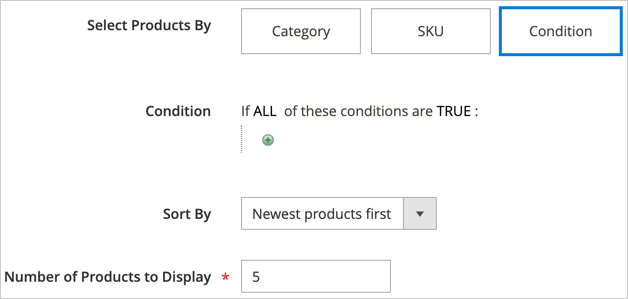
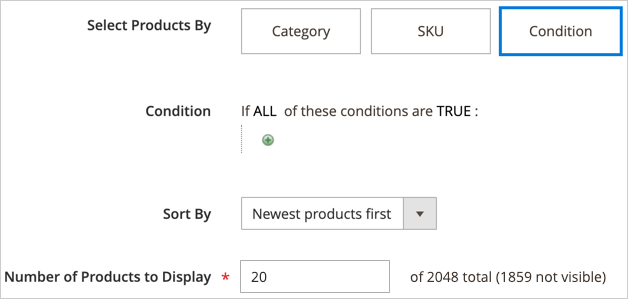
Updated Page Builder Products topic to include latest PB changes (#39)
* Updated Page Builder Products topic to include latest PB changes

* Update src/cms/page-builder-add-content-products.md

* Update src/cms/page-builder-add-content-products.md

* Update src/cms/page-builder-add-content-products.md

* Update src/cms/page-builder-add-content-products.md

* Update src/cms/page-builder-add-content-products.md

Changed region(s): [[0.6051, 0.8729, 0.9682, 0.9632], [0.3631, 0.8729, 0.4236, 0.9632]]

diff --git a/src/cms/page-builder-add-content-products.md b/src/cms/page-builder-add-content-products.md
@@ -82,50 +82,50 @@ You can now use a [widget]({% link cms/widgets.md %}) to place this block wherev
 
 ## Products Appearances
 
-| Appearances      | Description                                                                                                                                                                                              |
-|------------------|----------------------------------------------------------------------------------------------------------------------------------------------------------------------------------------------------------|
-| Product Grid     | Displays the products within a grid that shows five products per row (by default) and as many rows needed to display the number entered in the **Number of Products to Display** setting. |
+| Appearances      | Description                                                                                                                                                                                                                                                                                                                                                                                                                                                                             |
+|-----------|------------|
+| Product Grid  | Displays the products within a grid that shows five products per row (by default), with as many rows as needed to display the number entered in the **Number of Products to Display** setting. |
 | Product Carousel | Displays the products within a carousel (also known as a slider). The carousel shows up to five products per slide. <br/><br/>**Responsiveness Alert**: When you select this appearance, it is best to add the Products content type directly to a Row where it is responsive, showing fewer products per side on smaller screens. If you add it to any other content type (such as a Column or Tab), the carousel always shows five products per slide, regardless of the screen size. |
 
 ## Select Products By Settings
 
 The three options for selecting products -- by **Category**, **SKU**, or **Condition** -- are mutually exclusive. For example, you cannot select the Category option, use the Category selector, then switch over to the Condition option to add some conditions. Your products will only be selected based on what you enter in the fields from _one_ of these three options.
 
-| Settings                      | Description   |
-|-------------------------------|------------------------------------------------------------------------------------------------------------------------------------------------------------------------------------------------------------------------------------------------------------------------------------------------------------------------------------------------------------------------------------------------------------------------------------------------------------------------------------------------------------------------------------------------------------------------------------------------------------------------------------------------------------------------------------------------------------------------------------------------------------------------------------------------------------------------------------------------------------------------------------------------------------------------------------------------------------------------|
-| Category                      | Selects the products to display by category. When selected, this option provides a **Category** selector to choose the category of products to display.                                                                                                                                                                                                                                                                                                                                                                                                                                                                                                                                                                                                                                                                                                                                                                                                                                           |
-| SKU                           | Selects products to display by SKU. When selected, this option provides a **Product SKUs** text box to enter a comma-separated list of SKUs to display.                                                                                                                                                                                                                                                                                                                                                                                                                                                                                                                                                                                                                                                                                                                                                                                                                                           |
-| Condition                     | Selects products to display from the conditions you define. When selected, this option provides a **Condition** selector for adding conditions to your products selection.                                                                                                                                                                                                                                                                                                                                                                                                                                                                                                                                                                                                                                                                                                                                                                                                                                                               |
-| Category selector             | Provides a selector that lists all the categories within your catalog to choose from. For example, in the Magento sample data, selecting the Watches category displays all the watch products within that category. Additionally, if **Sort By** is set to **Position**, the products will appear in the same order that they appear in your catalog.                                                                                                                                                                                                                                                                                                                                                                                                                                                                                                                                                                                                                                                                                                                                                                                                                                           |
-| Product SKUs                  | Provides a textbox into which you can enter SKUs for the enabled products you want to display. If you enter a SKU for a disabled product, it will not display. Additionally, if **Sort By** is set to **Position**, these SKUs will appear in the Products list in the same order you enter them into this textbox.                                                                                                                                                                                                                                                                                                                                                                                                                                                                                                                                                                                                                                                                                                                                                                                                                                             |
-| Condition selector            | Provides a selector to add conditions (Gender, Price, Weight, and so on) for selecting the products you want to display in the Products list. For example, you could select only products with a Gender set to Unisex.                            |
+| Settings                      | Description                                                                                                                                                                                                                                                                                                                                                                                                                                                                                                                                                                                                                                                                                                                                                                                                                                                                                                                                                                                                                                                                                                                                                                                                                                                                                                                               |
+|--------------|----------------|
+| Category                      | Selects the products to display by category. When selected, this option provides a **Category** selector to choose the category of products to display.                                                                                                                                                                                                                                                                                                                                                                                                                                                                                                                                                                                                                                                                                                                                                                                                                                                                                                                                                                                                                                                                                                                                                                                   |
+| SKU                           | Selects products to display by SKU. When selected, this option provides a **Product SKUs** text box to enter a comma-separated list of SKUs to display.                                                                                                                                                                                                                                                                                                                                                                                                                                                                                                                                                                                                                                                                                                                                                                                                                                                                                                                                                                                                                                                                                                                                                                                   |
+| Condition                     | Selects products to display from the conditions you define. When selected, this option provides a **Condition** selector for adding conditions to your products selection.                                                                                                                                                                                                                                                                                                                                                                                                                                                                                                                                                                                                                                                                                                                                                                                                                                                                                                                                                                                                                                                                                                                                                                |
+| Category selector             | Provides a selector that lists all the categories within your catalog to choose from. For example, in the Magento sample data, selecting the Watches category displays all the watch products within that category. Additionally, if **Sort By** is set to **Position**, the products will appear in the same order that they appear in your catalog.                                                                                                                                                                                                                                                                                                                                                                                                                                                                                                                                                                                                                                                                                                                                                                                                                                                                                                                                                                                     |
+| Product SKUs                  | Provides a textbox into which you can enter SKUs for the enabled products you want to display. If you enter a SKU for a disabled product, it will not display. Additionally, if **Sort By** is set to **Position**, these SKUs will appear in the Products list in the same order you enter them into this textbox.                                                                                                                                                                                                                                                                                                                                                                                                                                                                                                                                                                                                                                                                                                                                                                                                                                                                                                                                                                                                                       |
+| Condition selector            | Provides a selector to add conditions (Gender, Price, Weight, and so on) for selecting the products you want to display in the Products list. For example, you could select only products with a Gender set to Unisex.                                                                                                                                                                                                                                                                                                                                                                                                                                                                                                                                                                                                                                                                                                                                                                                                                                                                                                                                                                                                                                                                                                                    |
 | Sort By                       | Determines the sort order for the products in the list. Options: <br/>**Position** (for Category and SKU options only): When you select the Category option, the Position displays products in the same order as their position in the catalog. When you select the SKU option, the Position displays products in the same order as the SKUs within the Product SKUs textbox.<br/>**Newest products first** - Sorts products by the date they were added to the catalog, displaying the products with the most recent entry dates first. <br/>**Oldest products first** - Sorts products by the date they were added to the catalog, displaying the products with the oldest entry dates first.<br/>**Name: A - Z** - Sorts products in alphabetical order. <br/>**Name: Z - A** - Sorts products in reverse alphabetical order. <br/>**SKU: ascending** - Sorts products by SKU in alphanumeric order. <br/>**SKU: descending** - Sorts products by SKU in reverse alphanumeric order.<br/>**Stock: low stock first** - Sorts products from the lowest to the highest stock volume. <br/>**Stock: high stock first** - Sorts products from the highest to the lowest stock volume. <br/>**Price: high to low** - Sorts products from highest to lowest price.<br/>**Price: low to high**  - Sorts products from lowest to highest price. |
-| Number of Products to Display | Specifies the total number of products to appear in a products grid or carousel. The default is set to 20.                                                                                                                                                                                                                                                                                                                                                                                                                                                                                                                                                                                                                                                                                                                                                                                                                                                                                      |
+| Number of Products to Display | Specifies the number of products you want to display in the products grid (default is 5) or carousel (default is 20). Note that some products in the Category, SKU, or Condition settings may not appear in your products grid or carousel. For example, disabled products, products marked as not visible, out-of-stock products, and products assigned to another website will not be displayed.                                                                                                                                                                                                                                                                                                                                                                                                                                                                                                                                                                                                                                                                                                                                                                                                                                                                                                                                        |
 
 ## Product Carousel Settings
 
 The following settings appear when you select the Product Carousel appearance at the top of the form.
 
-| Setting        | Description                                                                                                                                                                                                                                                                                                              |
-|----------------|--------------------------------------------------------------------------------------------------------------------------------------------------------------------------------------------------------------------------------------------------------------------------------------------------------------------------|
+| Setting        | Description                                                                                                                                                                                                                                                                                                                                                                                                                                                                                                                      |
+|----------------|-----------------|
 | Carousel Mode  | Determines how the products are displayed within the carousel. Options: <br/>**Default** - The carousel displays five products per slide by default and responsively reduces that number as needed. <br/>**Continuous** - The carousel displays five products per slide by default (with an additional half of a product on the right and left), but centers and scrolls one product at a time in an infinite loop. Products to the right and left of the centered product are dimmed so that the center product is highlighted. |
-| Autoplay       | Determines if the carousel begins scrolling automatically when the page loads. Options: <br/>**Yes** - The carousel scrolls automatically as soon as the page loads. <br/>**No** - After the first slide, which appears by default, the slide navigation (dots or arrows) must be clicked to display the next slide in sequence. |
-| Autoplay Speed | Specifies the delay in milliseconds between each slide when Autoplay is used. Default value: 4000 ms (4 seconds).                                                                                                                                                                                                         |
-| Infinite Loop  | Determines if the slide show replays from the beginning after the last slide. Options: <br/>**Yes** - The slide show replays indefinitely while the page is open. <br/>**No** - The slide show plays only once. Be aware that if you set Infinite Loop to No, with Autoplay set to Yes, the autoplay will stop at the end of the number of products being displayed.                                                                                                                           |
-| Show Arrows    | Determines if each slide includes _next_ and _previous_ navigation arrows on the left and right side of each slide. Options: <br/>**Yes** - Navigation arrows appear on the left and right side of each slide. <br/>**No** - The slides do not have navigation arrows.                                                                     |
-| Show Dots      | Determines if the carousel includes navigation dots below the slides. Options: <br/>**Yes** - Navigation dots appear at the bottom of the slider. <br/>**No** - The slider does not include navigation dots.                                                                                                                                 |
+| Autoplay       | Determines if the carousel begins scrolling automatically when the page loads. Options: <br/>**Yes** - The carousel scrolls automatically as soon as the page loads. <br/>**No** - After the first slide, which appears by default, the slide navigation (dots or arrows) must be clicked to display the next slide in sequence.                                                                                                                                                                                                 |
+| Autoplay Speed | Specifies the delay in milliseconds between each slide when Autoplay is used. Default value: 4000 ms (4 seconds).                                                                                                                                                                                                                                                                                                                                                                                                                |
+| Infinite Loop  | Determines if the slide show replays from the beginning after the last slide. Options: <br/>**Yes** - The slide show replays indefinitely while the page is open. <br/>**No** - The slide show plays only once. Be aware that if you set Infinite Loop to No, with Autoplay set to Yes, the autoplay will stop at the end of the number of products being displayed.                                                                                                                                                             |
+| Show Arrows    | Determines if each slide includes _next_ and _previous_ navigation arrows on the left and right side of each slide. Options: <br/>**Yes** - Navigation arrows appear on the left and right side of each slide. <br/>**No** - The slides do not have navigation arrows.                                                                                                                                                                                                                                                           |
+| Show Dots      | Determines if the carousel includes navigation dots below the slides. Options: <br/>**Yes** - Navigation dots appear at the bottom of the slider. <br/>**No** - The slider does not include navigation dots.                                                                                                                                                                                                                                                                                                                     |
 
 ## Advanced
 
-| Settings                       | Description                                                                                                                                                                                                                                                                                                                                                                                                                                                                                                                                                                                                                                                                                                                                                                                                                                          |
-|-------------------------------|------------------------------------------------------------------------------------------------------------------------------------------------------------------------------------------------------------------------------------------------------------------------------------------------------------------------------------------------------------------------------------------------------------------------------------------------------------------------------------------------------------------------------------------------------------------------------------------------------------------------------------------------------------------------------------------------------------------------------------------------------------------------------------------------------------------------------------------------------|
-| Alignment                     | Determines the horizontal alignment of the block. Options: <br/>**Default** - Applies the alignment default setting that is specified in the style sheet of the current theme. <br/>**Left** - Aligns the block along the left border of the parent container, with allowance for any padding that is specified.<br/>**Center** - Aligns the block in the center of the parent container, with allowance for any padding that is specified. <br/>**Right** - Aligns the block along the right border of the parent container, with allowance for any padding that is specified.                                                                                                                                                                                                                                                                      |
-| Border                        | Determines the border style that is applied to all four sides of the block container. Options: <br/>**Default** - Applies the default border style that is specified by the associated style sheet. <br/>**None** - Does not provide any visible indication of the container borders. <br/>**Dotted** - The container border appears as a dotted line.<br/>**Dashed** - The container border appears as a dashed line.<br/>**Solid** - The container border appears as a solid line.<br/>**Double** - The container border appears as a double line. <br/>**Groove** - The container border appears as a grooved line. <br/>**Ridge** - The container border appears as a ridged line. <br/>**Inset** - The container border appears as a inset line. <br/>**Outset** - The container border appears as a outset line.                               |
-| Border Color                  | Determines the color of the container border. Specify the color by choosing a swatch, clicking the color picker, or by entering a valid color name or equivalent hexadecimal value.                                                                                                                                                                                                                                                                                                                                                                                                                                                                                                                                                                                                                                                                  |
-| Border Width                  | Determines the width in pixels of the container border.                                                                                                                                                                                                                                                                                                                                                                                                                                                                                                                                                                                                                                                                                                                                                                                              |
-| Border Radius                 | Specifies the size of the radius that is used to round each corner of the border.                                                                                                                                                                                                                                                                                                                                                                                                                                                                                                                                                                                                                                                                                                                                                                    |
-| CSS Classes                   | Specifies the names of CSS classes from the current style sheet which apply to the container. Separate multiple class names with a space.                                                                                                                                                                                                                                                                                                                                                                                                                                                                                                                                                                                                                                                                                                            |
-| Margins and Padding           | Determines the size, in pixels, of the outer margins and inner padding of the block container. Enter the corresponding values in the diagram. <br/>**Margins** - The amount of blank space, in pixels, that is applied to the outside edge of all sides of the container. Options: Top / Right / Bottom / Left <br/>**Padding** - The amount of blank space, in pixels, that is applied to the inside edge of all sides of the container. Options: Top / Right / Bottom / Left                                                                                                                                                                                                                                                                                                                                                                       |
+| Settings            | Description                                                                                                                                                                                                                                                                                                                                                                                                                                                                                                                                                                                                                                                                                                                                                                                                            |
+|---------------------|-------------------|
+| Alignment           | Determines the horizontal alignment of the block. Options: <br/>**Default** - Applies the alignment default setting that is specified in the style sheet of the current theme. <br/>**Left** - Aligns the block along the left border of the parent container, with allowance for any padding that is specified.<br/>**Center** - Aligns the block in the center of the parent container, with allowance for any padding that is specified. <br/>**Right** - Aligns the block along the right border of the parent container, with allowance for any padding that is specified.                                                                                                                                                                                                                                        |
+| Border              | Determines the border style that is applied to all four sides of the block container. Options: <br/>**Default** - Applies the default border style that is specified by the associated style sheet. <br/>**None** - Does not provide any visible indication of the container borders. <br/>**Dotted** - The container border appears as a dotted line.<br/>**Dashed** - The container border appears as a dashed line.<br/>**Solid** - The container border appears as a solid line.<br/>**Double** - The container border appears as a double line. <br/>**Groove** - The container border appears as a grooved line. <br/>**Ridge** - The container border appears as a ridged line. <br/>**Inset** - The container border appears as a inset line. <br/>**Outset** - The container border appears as a outset line. |
+| Border Color        | Determines the color of the container border. Specify the color by choosing a swatch, clicking the color picker, or by entering a valid color name or equivalent hexadecimal value.                                                                                                                                                                                                                                                                                                                                                                                                                                                                                                                                                                                                                                    |
+| Border Width        | Determines the width in pixels of the container border.                                                                                                                                                                                                                                                                                                                                                                                                                                                                                                                                                                                                                                                                                                                                                                |
+| Border Radius       | Specifies the size of the radius that is used to round each corner of the border.                                                                                                                                                                                                                                                                                                                                                                                                                                                                                                                                                                                                                                                                                                                                      |
+| CSS Classes         | Specifies the names of CSS classes from the current style sheet which apply to the container. Separate multiple class names with a space.                                                                                                                                                                                                                                                                                                                                                                                                                                                                                                                                                                                                                                                                              |
+| Margins and Padding | Determines the size, in pixels, of the outer margins and inner padding of the block container. Enter the corresponding values in the diagram. <br/>**Margins** - The amount of blank space, in pixels, that is applied to the outside edge of all sides of the container. Options: Top / Right / Bottom / Left <br/>**Padding** - The amount of blank space, in pixels, that is applied to the inside edge of all sides of the container. Options: Top / Right / Bottom / Left                                                                                                                                                                                                                                                                                                                                         |
 
 [Product Carousel Settings]: #product-carousel-settings
 [Select Products By Settings]: #select-products-by-settings
